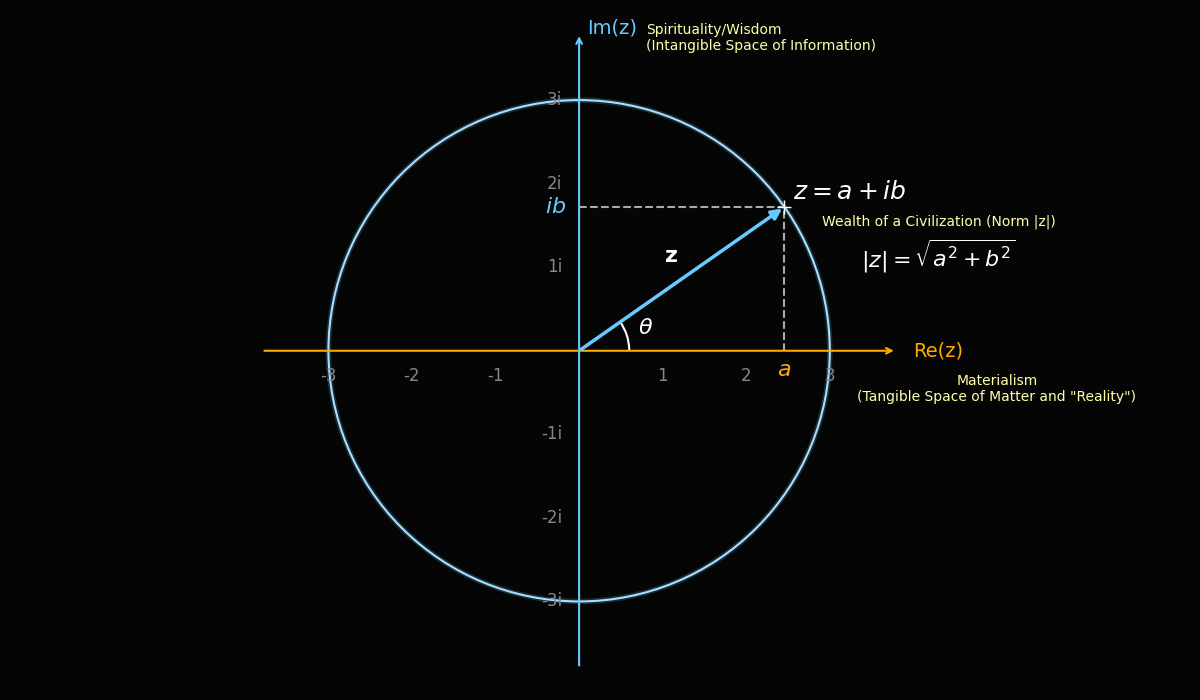
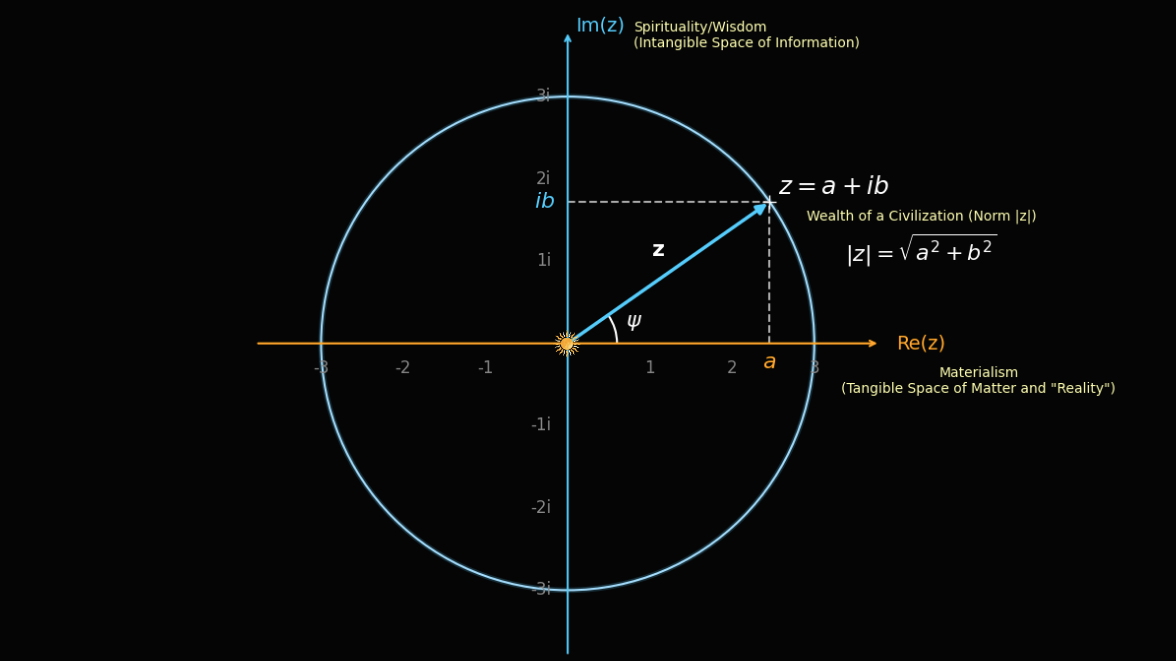
Fixing Consensus notation and Hermitian Space : Complex World

diff --git a/blog/le-monde-est-complexe.html b/blog/le-monde-est-complexe.html
@@ -145,10 +145,63 @@
         /* Footer */
         footer { font-family: 'Helvetica Neue', sans-serif; text-align: center; padding: 3rem 2rem; border-top: 1px solid var(--border-glow); color: var(--text-muted); font-size: 0.82rem; }
         
+        /* ========================================== */
+        /* SECTION FEEDBACK (FORMSPREE & POPUP)       */
+        /* ========================================== */
+        .feedback-container {
+            margin: 5rem auto 4rem; padding: 2.5rem; background: rgba(255, 255, 255, 0.02);
+            border: 1px solid rgba(255, 170, 0, 0.2); border-radius: 12px;
+            box-shadow: 0 10px 30px rgba(0,0,0,0.5); max-width: 700px; text-align: center;
+        }
+        .feedback-title {
+            color: var(--sun-yellow); font-size: 1.5rem; text-transform: uppercase; 
+            letter-spacing: 2px; margin-bottom: 0.5rem; font-weight: 800; font-family: 'Helvetica Neue', sans-serif;
+        }
+        .feedback-desc { color: #aaa; font-style: italic; font-size: 0.95rem; margin-bottom: 2rem; }
+        .feedback-label { display: block; color: #d4d4d4; margin-bottom: 0.8rem; font-size: 1.05rem; }
+        .feedback-anon { font-size: 0.85rem; color: #888; font-style: italic; margin-bottom: 1.5rem; }
+        
+        .star-rating { display: flex; flex-direction: row-reverse; justify-content: center; gap: 0.5rem; margin-bottom: 1.5rem; }
+        .star-rating input { display: none; }
+        .star-rating label { color: #333; font-size: 2.5rem; cursor: pointer; transition: color 0.2s ease, transform 0.2s ease; }
+        .star-rating label:hover, .star-rating label:hover ~ label, .star-rating input:checked ~ label {
+            color: var(--sun-yellow); text-shadow: 0 0 15px rgba(255, 204, 0, 0.5);
+        }
+        .star-rating label:hover { transform: scale(1.1); }
+        
+        .feedback-textarea {
+            width: 100%; background: #050505; border: 1px solid rgba(255, 204, 0, 0.2);
+            border-radius: 8px; color: #fff; padding: 1.2rem; font-family: 'Georgia', serif;
+            font-size: 1.1rem; min-height: 180px; resize: vertical; margin-bottom: 1.5rem;
+            outline: none; transition: border-color 0.3s, box-shadow 0.3s;
+        }
+        .feedback-textarea:focus { border-color: var(--sun-yellow); box-shadow: 0 0 15px rgba(255, 204, 0, 0.15); }
+        
+        .feedback-submit {
+            background: rgba(255, 170, 0, 0.1); border: 1px solid var(--sun-yellow); color: var(--sun-yellow); 
+            padding: 12px 35px; border-radius: 30px; cursor: pointer; font-family: 'Helvetica Neue', sans-serif; 
+            font-weight: bold; letter-spacing: 2px; text-transform: uppercase; transition: all 0.3s ease; backdrop-filter: blur(4px);
+        }
+        .feedback-submit:hover:not(:disabled) {
+            background: rgba(255, 170, 0, 0.3); box-shadow: 0 0 25px rgba(255, 170, 0, 0.5); transform: scale(1.05);
+        }
+        .feedback-submit:disabled { opacity: 0.5; cursor: not-allowed; }
+
+        .feedback-popup {
+            display: none; position: fixed; bottom: 30px; right: 30px; 
+            background: rgba(68, 255, 102, 0.1); border: 1px solid #44ff66; color: #44ff66; 
+            padding: 15px 25px; border-radius: 8px; box-shadow: 0 5px 20px rgba(68, 255, 102, 0.2); 
+            z-index: 1000; backdrop-filter: blur(5px); align-items: center; gap: 10px; 
+            font-family: 'Helvetica Neue', sans-serif; font-weight: bold; letter-spacing: 1px; 
+            animation: slideIn 0.3s ease-out forwards;
+        }
+        @keyframes slideIn { from { transform: translateX(100%); opacity: 0; } to { transform: translateX(0); opacity: 1; } }
+
         @media (max-width: 768px) {
             .nav-center { display: none; }
             .lang-toggle { margin-left: auto; border-left: none; padding-left: 0; }
             .research-note { padding: 1.5rem; }
+            .feedback-popup { left: 20px; right: 20px; bottom: 20px; text-align: center; }
         }
     </style>
 </head>
@@ -215,8 +268,8 @@
     <p lang="en">Protecting this real axis is our absolute imperative, but the classical physics of our institutions has failed to do so, because it lacked an orthogonal dimension to enshrine its value.</p>
     <p lang="fr">Protéger cet axe réel est notre impératif absolu, mais la physique classique de nos institutions a échoué à le faire, car elle manquait d'une dimension orthogonale pour en sanctuariser la valeur.</p>
 
-    <h3 lang="en">The Imaginary Axis ($ib$): The Participatory Universe</h3>
-    <h3 lang="fr">L'Axe Imaginaire ($ib$) : L'Univers Participatif</h3>
+    <h3 lang="en">The Hermitian Space ($ib$): The Participatory Universe</h3>
+    <h3 lang="fr">L'Espace Hermitien ($ib$) : L'Univers Participatif</h3>
 
     <blockquote lang="en">
         “Information is information, not matter or energy. No materialism which does not admit this can survive at the present day.”<br>
@@ -227,8 +280,8 @@
         <span style="color:var(--sun-orange); font-size:0.85rem; font-style:normal; letter-spacing:2px; text-transform:uppercase; display:block; margin-top:10px;">— Norbert Wiener, père de la cybernétique</span>
     </blockquote>
 
-    <p lang="en">This is where $ib$, the imaginary part, comes in. This term is misleading, because there is nothing fanciful about it. In mathematics, the number $i$ (the square root of -1) allows one to rotate 90 degrees, opening up a dimension totally orthogonal to the first. $ib$ is the dimension of the intangible, of pure information, and of the observer.</p>
-    <p lang="fr">C'est ici qu'intervient $ib$, la partie imaginaire. Ce terme est trompeur, car il n'a rien de fantaisiste. En mathématiques, le nombre $i$ (la racine carrée de -1) permet de pivoter à 90 degrés, d'ouvrir une dimension totalement orthogonale à la première. $ib$ est la dimension de l'intangible, de l'information pure et de l'observateur.</p>
+    <p lang="en">This is where $ib$ comes in. The term "imaginary" is a historical misnomer, as there is nothing fanciful about it. Quantum mathematics teaches us that pure information exists in a <strong>Hermitian space</strong>, strictly orthogonal to the physical world. By multiplying by $i$ (the square root of -1), we perform a 90-degree mathematical rotation out of the classical thermodynamic plane. This $ib$ axis is the dimension of the intangible, of the code, and of the observer.</p>
+    <p lang="fr">C'est ici qu'intervient $ib$. Le terme "imaginaire" est un malentendu historique, car il n'a rien de fantaisiste. Les mathématiques quantiques nous enseignent que l'information pure existe dans un <strong>espace Hermitien</strong>, strictement orthogonal au monde physique. En multipliant par $i$ (la racine carrée de -1), nous opérons une rotation mathématique de 90 degrés hors du plan de la thermodynamique classique. Cet axe $ib$ est la dimension de l'intangible, du code et de l'observateur.</p>
 
     <p lang="en">The great American physicist John Archibald Wheeler bequeathed to us the concept of the <strong>Participatory Universe</strong>. He postulated that the universe is not a static stage playing out without us, but a dynamic fabric that only takes form and reality when it is observed and measured. According to his famous maxim <em>"It from bit"</em>, every physical "thing" derives its existence entirely from binary choices, from information. The universe does not simply exist; we observe it into existence.</p>
     <p lang="fr">Le grand physicien américain John Archibald Wheeler nous a légué le concept d'<strong>Univers Participatif</strong>. Il postulait que l'univers n'est pas une scène statique se déroulant sans nous, mais un tissu dynamique qui ne prend forme et réalité que lorsqu'il est observé et mesuré. Selon sa célèbre maxime <em>"It from bit"</em>, toute "chose" physique tire son existence entièrement de choix binaires, d'information. L'univers ne se contente pas d'exister ; notre observation le fait exister.</p>
@@ -248,20 +301,20 @@
     <p lang="en">Our biology, and particularly our brain, is a literal incarnation of the complex plane. The left hemisphere (analytical, material) interacts with the thermodynamic axis ($a$), while the right hemisphere (holistic, abstract) manages imagination and operates on the informational axis ($ib$). An asymmetrical brain malfunctions. In the same way, our civilizational "Super-Organism" is currently hemiplegic: materially overdeveloped, but incapable of stabilizing its information.</p>
     <p lang="fr">Notre biologie, et particulièrement notre cerveau, est une incarnation littérale du plan complexe. L'hémisphère gauche (analytique, matériel) interagit avec l'axe thermodynamique ($a$), tandis que l'hémisphère droit (holistique, abstrait) gère l'imaginaire et opère sur l'axe informationnel ($ib$). Un cerveau asymétrique dysfonctionne. De la même manière, notre « Super-Organisme » civilisationnel est aujourd'hui hémiplégique : surdéveloppé matériellement, mais incapable de stabiliser son information.</p>
 
-    <p lang="en">The decentralized digital web we are building today through code and cryptography acts as the missing right hemisphere of civilization. In mathematics, symmetry in the complex plane is expressed by the conjugate: for any point $z = a + ib$, there exists a symmetrical shadow $\bar{z} = a - ib$. This digital footprint is the exact cryptographic mirror of physical value. The symmetry forces the two worlds to balance each other.</p>
-    <p lang="fr">La toile numérique décentralisée que nous bâtissons aujourd'hui par le code et la cryptographie vient agir comme l'hémisphère droit manquant de la civilisation. En mathématiques, la symétrie dans le plan complexe s'exprime par le conjugué : pour tout point $z = a + ib$, il existe une ombre symétrique $\bar{z} = a - ib$. Cette empreinte numérique est le miroir cryptographique exact de la valeur physique. La symétrie force les deux mondes à s'équilibrer.</p>
+    <p lang="en">The decentralized digital web we are building today through code and cryptography acts as the missing right hemisphere of civilization. In the geometry of a Hermitian space, symmetry is expressed by the complex conjugate: for any physical point $z = a + ib$, there exists a symmetrical informational shadow $\bar{z} = a - ib$. This digital footprint is the exact cryptographic mirror of physical value. Orthogonality forces the two worlds to balance each other without ever corrupting one another.</p>
+    <p lang="fr">La toile numérique décentralisée que nous bâtissons aujourd'hui par le code et la cryptographie agit comme l'hémisphère droit manquant de la civilisation. Dans la géométrie d'un espace Hermitien, la symétrie s'exprime par le conjugué complexe : pour tout point physique $z = a + ib$, il existe une ombre informationnelle symétrique $\bar{z} = a - ib$. Cette empreinte numérique est le miroir cryptographique exact de la valeur physique. L'orthogonalité force les deux mondes à s'équilibrer sans jamais se contaminer l'un l'autre.</p>
 
     <p lang="en">The entropy of our physical universe ($a$) is an inescapable process of degradation. Placing our symmetry in the complex plane shows that the only way to accumulate negentropy on a planetary scale is no longer to build concrete structures that will inevitably turn to dust, but to encode this order orthogonally ($ib$), in a realm where the thermodynamic arrow of time can no longer corrupt it.</p>
     <p lang="fr">L'entropie de notre univers physique ($a$) est un processus de dégradation inéluctable. Placer notre symétrie dans le plan complexe montre que la seule façon d'accumuler de la néguentropie à l'échelle planétaire n'est plus de construire des édifices en béton qui finiront en poussière, mais d'encoder cet ordre de manière orthogonale ($ib$), là où la flèche du temps thermodynamique ne peut plus le corrompre.</p>
 
-    <h3 lang="en">The Angle $\Phi$: Consensus and the Persistence of Reality</h3>
-    <h3 lang="fr">L'Angle $\Phi$ : Le Consensus et la Persistance de la Réalité</h3>
+    <h3 lang="en">The Angle $\psi$: Consensus and the Persistence of Reality</h3>
+    <h3 lang="fr">L'Angle $\psi$ : Le Consensus et la Persistance de la Réalité</h3>
 
-    <p lang="en">In the complex plane, a point is defined not only by its coordinates $a$ and $b$, but also by its angle relative to the origin: the argument $\Phi$. This angle possesses a staggering physical and philosophical significance: <strong>it represents our level of information and our consensus</strong>.</p>
-    <p lang="fr">Dans le plan complexe, un point ne se définit pas seulement par ses coordonnées $a$ et $b$, mais aussi par son angle par rapport à l'origine : l'argument $\Phi$. Cet angle possède une signification physique et philosophique fulgurante : <strong>il représente notre niveau d'information et notre consensus</strong>.</p>
+    <p lang="en">In the complex plane, a point is defined not only by its coordinates $a$ and $b$, but also by its angle relative to the origin: the argument $\psi$. This angle possesses a staggering physical and philosophical significance: <strong>it represents our level of information and our consensus</strong>.</p>
+    <p lang="fr">Dans le plan complexe, un point ne se définit pas seulement par ses coordonnées $a$ et $b$, mais aussi par son angle par rapport à l'origine : l'argument $\psi$. Cet angle possède une signification physique et philosophique fulgurante : <strong>il représente notre niveau d'information et notre consensus</strong>.</p>
 
-    <p lang="en">Because we have not all accumulated, verified, or internalized the same density of information, our individual vectors do not point in the same direction. If our angles $\Phi$ differ, we literally do not experience the same reality. The cognitive fragmentation of our era is nothing else than a dispersion of these angles in the complex plane: individuals sharing the same physical space ($a$), but desynchronized in the informational space ($ib$).</p>
-    <p lang="fr">Parce que nous n'avons pas tous accumulé, vérifié ou intériorisé la même densité d'information, nos vecteurs individuels ne pointent pas dans la même direction. Si nos angles $\Phi$ diffèrent, nous n'expérimentons littéralement pas la même réalité. La fragmentation cognitive de notre époque n'est rien d'autre qu'une dispersion de ces angles dans le plan complexe : des individus partageant le même espace physique ($a$), mais désynchronisés dans l'espace informationnel ($ib$).</p>
+    <p lang="en">Because we have not all accumulated, verified, or internalized the same density of information, our individual vectors do not point in the same direction. If our angles $\psi$ differ, we literally do not experience the same reality. The cognitive fragmentation of our era is nothing else than a dispersion of these angles in the complex plane: individuals sharing the same physical space ($a$), but desynchronized in the informational space ($ib$).</p>
+    <p lang="fr">Parce que nous n'avons pas tous accumulé, vérifié ou intériorisé la même densité d'information, nos vecteurs individuels ne pointent pas dans la même direction. Si nos angles $\psi$ diffèrent, nous n'expérimentons littéralement pas la même réalité. La fragmentation cognitive de notre époque n'est rien d'autre qu'une dispersion de ces angles dans le plan complexe : des individus partageant le même espace physique ($a$), mais désynchronisés dans l'espace informationnel ($ib$).</p>
 
     <blockquote lang="en">
         “Reality is that which, when you stop believing in it, doesn't go away.”<br>
@@ -272,8 +325,8 @@
         <span style="color:var(--sun-orange); font-size:0.85rem; font-style:normal; letter-spacing:2px; text-transform:uppercase; display:block; margin-top:10px;">— Philip K. Dick</span>
     </blockquote>
 
-    <p lang="en">For millennia, only physical matter ($a$) met Philip K. Dick's definition. Ideas, cultures, and intangible truths vanished when the minds carrying them stopped believing. But the thermodynamics of information changes this rule entirely. When we reach a decentralized consensus, we align our angles $\Phi$. We create a digital truth that, even if you personally stop believing in it, continues to exist, secured and observed by a global network. <strong>We collectively create the world as we observe it. The angle $\Phi$ is our shared, unwavering gaze.</strong></p>
-    <p lang="fr">Pendant des millénaires, seule la matière physique ($a$) répondait à la définition de Philip K. Dick. Les idées, les cultures et les vérités intangibles s'évaporaient lorsque les esprits qui les portaient cessaient d'y croire. Mais la thermodynamique de l'information bouleverse cette règle. Lorsque nous atteignons un consensus décentralisé, nous alignons nos angles $\Phi$. Nous créons une vérité numérique qui, même si vous cessez d'y croire personnellement, continue d'exister, sécurisée et observée par un réseau mondial. <strong>Nous créons collectivement le monde tel que nous l'observons. L'angle $\Phi$ est notre regard partagé et inébranlable.</strong></p>
+    <p lang="en">For millennia, only physical matter ($a$) met Philip K. Dick's definition. Ideas, cultures, and intangible truths vanished when the minds carrying them stopped believing. But the thermodynamics of information changes this rule entirely. When we reach a decentralized consensus, we align our angles $\psi$. We create a digital truth that, even if you personally stop believing in it, continues to exist, secured and observed by a global network. <strong>We collectively create the world as we observe it. The angle $\psi$ is our shared, unwavering gaze.</strong></p>
+    <p lang="fr">Pendant des millénaires, seule la matière physique ($a$) répondait à la définition de Philip K. Dick. Les idées, les cultures et les vérités intangibles s'évaporaient lorsque les esprits qui les portaient cessaient d'y croire. Mais la thermodynamique de l'information bouleverse cette règle. Lorsque nous atteignons un consensus décentralisé, nous alignons nos angles $\psi$. Nous créons une vérité numérique qui, même si vous cessez d'y croire personnellement, continue d'exister, sécurisée et observée par un réseau mondial. <strong>Nous créons collectivement le monde tel que nous l'observons. L'angle $\psi$ est notre regard partagé et inébranlable.</strong></p>
 
     <h3 lang="en">The Modulus ($|z|$): The Advent of Homo Biodiversitas</h3>
     <h3 lang="fr">Le Module ($|z|$) : L'Avènement de l'Homo Biodiversitas</h3>
@@ -307,8 +360,8 @@
     <p lang="en">This is by no means a mathematical coincidence. The constructal law of thermodynamics demonstrates that living systems evolve to maximize the fluidity of their energy flows. The phyllotaxis of a tree's leaves or the shell of a nautilus use $\varphi$ to dissipate solar energy in the most elegant and resilient way possible. By indexing our economy on the Sun Standard and our shared observation, humanity finally embraces the evolutionary spiral of the living: a growth infinitely rich in informational complexity, yet organically and perfectly bounded by the laws of physics.</p>
     <p lang="fr">Ce n'est en rien un hasard mathématique. La loi constructale de la thermodynamique démontre que les systèmes vivants évoluent pour maximiser la fluidité de leurs flux d'énergie. La phyllotaxis des feuilles d'un arbre ou la coquille d'un nautile utilisent $\varphi$ pour dissiper l'énergie solaire de la manière la plus élégante et résiliente possible. En indexant notre économie sur l'Étalon Solaire et notre observation partagée, l'humanité embrasse enfin la spirale d'évolution du vivant : une croissance infiniment riche en complexité informationnelle, mais organiquement et parfaitement bornée par les lois de la physique.</p>
 
-    <p lang="en">In the complex plane, when the radius (the modulus $|z|$) grows at the same time as the angle ($\Phi$), it draws a logarithmic spiral (the golden spiral), which is the very shape of the growth of living things (the nautilus shell, the arrangement of leaves to capture solar light).</p>
-    <p lang="fr">Dans le plan complexe, lorsque le rayon (le module $|z|$) croît en même temps que l'angle ($\Phi$), cela dessine une spirale logarithmique (la spirale d'or), qui est la forme même de la croissance du vivant (la coquille du nautile, la disposition des feuilles pour capter la lumière solaire).</p>
+    <p lang="en">In the complex plane, when the radius (the modulus $|z|$) grows at the same time as the angle ($\psi$), it draws a logarithmic spiral (the golden spiral), which is the very shape of the growth of living things (the nautilus shell, the arrangement of leaves to capture solar light).</p>
+    <p lang="fr">Dans le plan complexe, lorsque le rayon (le module $|z|$) croît en même temps que l'angle ($\psi$), cela dessine une spirale logarithmique (la spirale d'or), qui est la forme même de la croissance du vivant (la coquille du nautile, la disposition des feuilles pour capter la lumière solaire).</p>
 
     <p><img src="HomoBiodiversitas.png" alt="A World Of Biodiversity" style="width: 70%; max-width: 900px; height: auto; border-radius: 8px; border: 1px solid rgba(255, 170, 0, 0.2);"></p>
     
@@ -373,11 +426,54 @@
         <a target="_blank" href="../articles/Cosmology.pdf" lang="en">For the most curious, click here to read a draft of the associated cosmological model.</a>
         <a target="_blank" href="../articles/Cosmology.pdf" lang="fr">Pour les plus curieux, cliquez ici pour lire une ébauche du modèle cosmologique associée.</a>
     </p>
+    
+    <div class="feedback-container">
+        <h3 lang="en" class="feedback-title">Help Improve This Theory</h3>
+        <h3 lang="fr" class="feedback-title">Aidez à améliorer cette théorie</h3>
+        
+        <p lang="en" class="feedback-desc">This is an ongoing phenomenological research effort. Your feedback is vital to clarify the mechanics and correct potential flaws.</p>
+        <p lang="fr" class="feedback-desc">Il s'agit d'un effort de recherche phénoménologique en cours. Vos retours sont vitaux pour clarifier la mécanique et corriger d'éventuelles failles.</p>
+
+        <form id="feedback-form" action="https://formspree.io/f/xrejrzrz" method="POST">
+            <input type="hidden" name="article_title" value="Le monde est complexe">
+            
+            <div class="star-rating">
+                <input type="radio" id="star5" name="rating" value="5" required />
+                <label for="star5" title="Excellent">&#9733;</label>
+                <input type="radio" id="star4" name="rating" value="4" />
+                <label for="star4" title="Very Good">&#9733;</label>
+                <input type="radio" id="star3" name="rating" value="3" />
+                <label for="star3" title="Average">&#9733;</label>
+                <input type="radio" id="star2" name="rating" value="2" />
+                <label for="star2" title="Poor">&#9733;</label>
+                <input type="radio" id="star1" name="rating" value="1" />
+                <label for="star1" title="Bad">&#9733;</label>
+            </div>
+
+            <label lang="en" class="feedback-label">Which concepts seem obscure? What could be improved?</label>
+            <label lang="fr" class="feedback-label">Quels concepts vous semblent obscurs ? Qu'est-ce qui pourrait être amélioré ?</label>
+            
+            <textarea name="feedback" class="feedback-textarea" required></textarea>
+
+            <p lang="en" class="feedback-anon">🔒 This survey is 100% anonymous unless you specify your name in the comment.</p>
+            <p lang="fr" class="feedback-anon">🔒 Ce retour est 100 % anonyme, à moins que vous n'indiquiez explicitement votre nom dans le commentaire.</p>
+            
+            <button type="submit" class="feedback-submit" id="feedback-btn">
+                <span lang="en">Submit Feedback</span>
+                <span lang="fr">Envoyer le retour</span>
+            </button>
+        </form>
+    </div>
+
+    <div id="success-popup" class="feedback-popup">
+        <span lang="en">✅ Feedback successfully submitted! Thank you.</span>
+        <span lang="fr">✅ Retour envoyé avec succès ! Merci.</span>
+    </div>
     <p><br />
         <a href="nautile-nakamoto.html" class="next" lang="en">→ Next Article : "Le Nautile de Nakamoto" <br /><img src="NautileNakamotoIM.png" alt="Nautile Nakamoto Image" style="width: 100%; max-width: 900px; height: auto; border-radius: 8px; border: 1px solid rgba(255, 170, 0, 0.2);"></a>
         <a href="nautile-nakamoto.html" class="next" lang="fr">→ Prochain article : "Le Nautile de Nakamoto" <br /><img src="NautileNakamotoIM.png" alt="Nautile Nakamoto Image" style="width: 100%; max-width: 900px; height: auto; border-radius: 8px; border: 1px solid rgba(255, 170, 0, 0.2);"></a>
     </p>
-    
+
 </article>
 
 <footer>
@@ -387,7 +483,46 @@
     </div>
     <p>Pascal Ranaora · 2026</p>
 </footer>
+<script>
+document.addEventListener("DOMContentLoaded", () => {
+    const form = document.getElementById("feedback-form");
+    const popup = document.getElementById("success-popup");
+    const btn = document.getElementById("feedback-btn");
 
+    if (form) {
+        form.addEventListener("submit", async function(event) {
+            event.preventDefault(); 
+            
+            const originalHtml = btn.innerHTML;
+            btn.innerHTML = "⏳ ...";
+            btn.disabled = true;
+
+            const formData = new FormData(form);
+
+            try {
+                const response = await fetch(form.action, {
+                    method: form.method,
+                    body: formData,
+                    headers: { 'Accept': 'application/json' }
+                });
+                
+                if (response.ok) {
+                    form.reset();
+                    popup.style.display = "flex";
+                    setTimeout(() => { popup.style.display = "none"; }, 4000);
+                } else {
+                    alert("Erreur lors de l'envoi. / Error during submission.");
+                }
+            } catch (error) {
+                alert("Erreur réseau. / Network error.");
+            } finally {
+                btn.innerHTML = originalHtml;
+                btn.disabled = false;
+            }
+        });
+    }
+});
+</script>
 <script>
     function setLang(lang) {
         lang = lang.toLowerCase();
